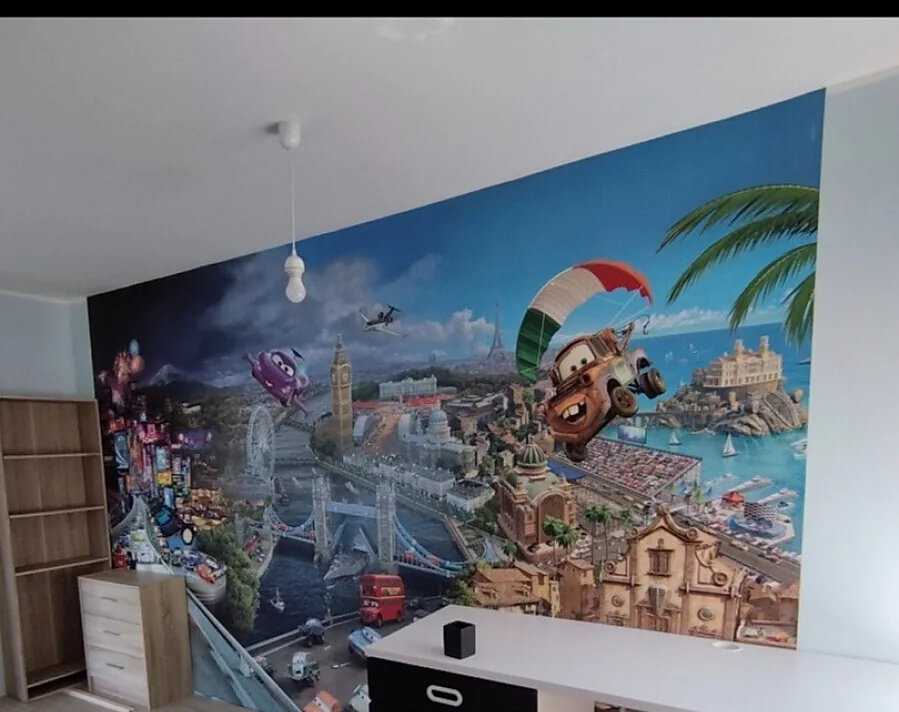
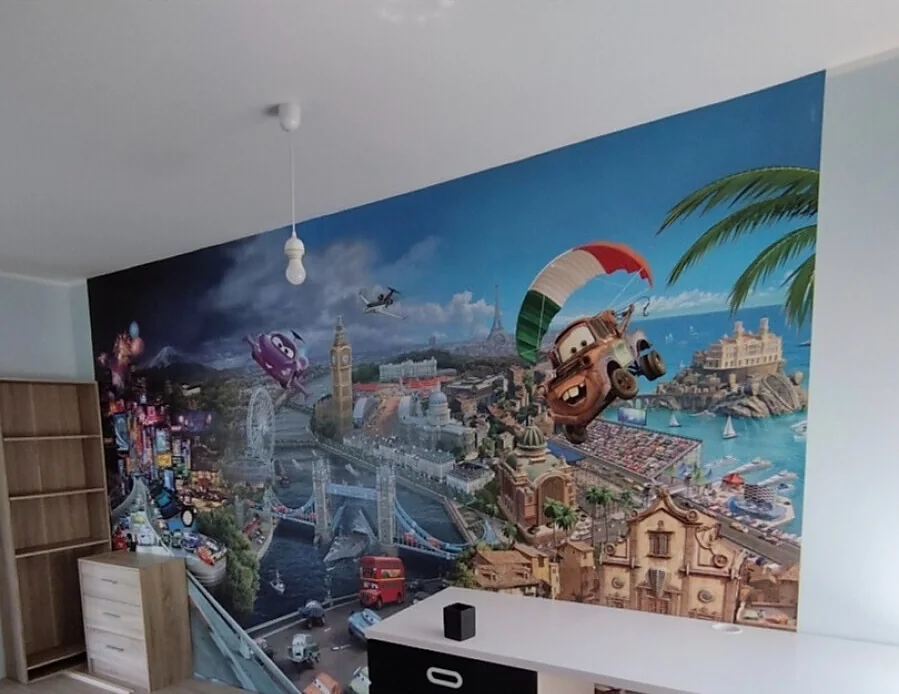
Mustad ääred fotodelt, keskel ikoonid ja päise numbrinupu polster
- ehita.py lõikab fotode servadest mustad ribad, mille telefon või
  portaal on lisanud; kollaažide sisemist musta tausta see ei puuduta
- suurendusakna nupud SVG-ikoonidega, fondi märgid ei istunud keskel
- menüülinkide stiil kehtib ainult nimekirja linkidele, päise
  numbrinupp saab tagasi oma polstri, tumeda teksti ja paksuse

diff --git a/public/index.html b/public/index.html
@@ -239,14 +239,14 @@
       <p class="sissejuhatus">Fotod on meie enda objektidelt. Osa piltidest on enne ja pärast võrdlused, sest viimistluse ja puhastuse töö ongi kõige paremini näha vahet vaadates.</p>
 
       <div class="galerii">
-        <figure class="lai"><a class="galerii-link" href="/pildid/fototapeet-ornamendiga-magamistoas.webp"><img src="/pildid/fototapeet-ornamendiga-magamistoas.webp" width="899" height="551" loading="lazy" decoding="async" alt="Magamistoa seinal hallis toonis ornamendimustriga fototapeet ja lae all must kroonlühter."></a></figure>
-        <figure><a class="galerii-link" href="/pildid/korteri-remont-enne-ja-parast.webp"><img src="/pildid/korteri-remont-enne-ja-parast.webp" width="900" height="1144" loading="lazy" decoding="async" alt="Enne ja pärast võrdlus korteri remondist: punase seinaviimistluse asemel on hele sein ja uus põrand."></a></figure>
-        <figure><a class="galerii-link" href="/pildid/maalritood-enne-ja-parast.webp"><img src="/pildid/maalritood-enne-ja-parast.webp" width="900" height="1144" loading="lazy" decoding="async" alt="Neljast fotost koosnev võrdlus maalritöödest: lagi ja seinad enne pahteldamist ning pärast värvimist."></a></figure>
-        <figure class="lai"><a class="galerii-link" href="/pildid/fototapeet-lastetoa-seinal.webp"><img src="/pildid/fototapeet-lastetoa-seinal.webp" width="899" height="712" loading="lazy" decoding="async" alt="Lastetoa seinal värviline joonistatud linnamotiiviga fototapeet ja selle ees valge töölaud."></a></figure>
+        <figure class="lai"><a class="galerii-link" href="/pildid/fototapeet-ornamendiga-magamistoas.webp"><img src="/pildid/fototapeet-ornamendiga-magamistoas.webp" width="815" height="551" loading="lazy" decoding="async" alt="Magamistoa seinal hallis toonis ornamendimustriga fototapeet ja lae all must kroonlühter."></a></figure>
+        <figure><a class="galerii-link" href="/pildid/korteri-remont-enne-ja-parast.webp"><img src="/pildid/korteri-remont-enne-ja-parast.webp" width="900" height="1093" loading="lazy" decoding="async" alt="Enne ja pärast võrdlus korteri remondist: punase seinaviimistluse asemel on hele sein ja uus põrand."></a></figure>
+        <figure><a class="galerii-link" href="/pildid/maalritood-enne-ja-parast.webp"><img src="/pildid/maalritood-enne-ja-parast.webp" width="900" height="1048" loading="lazy" decoding="async" alt="Neljast fotost koosnev võrdlus maalritöödest: lagi ja seinad enne pahteldamist ning pärast värvimist."></a></figure>
+        <figure class="lai"><a class="galerii-link" href="/pildid/fototapeet-lastetoa-seinal.webp"><img src="/pildid/fototapeet-lastetoa-seinal.webp" width="899" height="694" loading="lazy" decoding="async" alt="Lastetoa seinal värviline joonistatud linnamotiiviga fototapeet ja selle ees valge töölaud."></a></figure>
         <figure><a class="galerii-link" href="/pildid/varvitud-seinte-ja-laega-tuba.webp"><img src="/pildid/varvitud-seinte-ja-laega-tuba.webp" width="900" height="844" loading="lazy" decoding="async" alt="Heledaks värvitud seinte ja laega tuba, ukseavast paistab köök."></a></figure>
         <figure><a class="galerii-link" href="/pildid/toa-ettevalmistus-varvimiseks.webp"><img src="/pildid/toa-ettevalmistus-varvimiseks.webp" width="900" height="1872" loading="lazy" decoding="async" alt="Värvimiseks ette valmistatud tuba, põrand on kaetud kaitsekattega ja keskel seisavad värvinõud."></a></figure>
         <figure><a class="galerii-link" href="/pildid/seinakarkass-korteri-remondil.webp"><img src="/pildid/seinakarkass-korteri-remondil.webp" width="900" height="844" loading="lazy" decoding="async" alt="Pooleliolev korteri remont, ruumi jagab puidust seinakarkass ja põrandal on puitplaadid."></a></figure>
-        <figure><a class="galerii-link" href="/pildid/vannitoa-puhastus-enne-ja-parast.webp"><img src="/pildid/vannitoa-puhastus-enne-ja-parast.webp" width="900" height="1144" loading="lazy" decoding="async" alt="Enne ja pärast võrdlus vannitoa puhastusest: määrdunud nurga asemel on puhtad heledad plaadid."></a></figure>
+        <figure><a class="galerii-link" href="/pildid/vannitoa-puhastus-enne-ja-parast.webp"><img src="/pildid/vannitoa-puhastus-enne-ja-parast.webp" width="900" height="920" loading="lazy" decoding="async" alt="Enne ja pärast võrdlus vannitoa puhastusest: määrdunud nurga asemel on puhtad heledad plaadid."></a></figure>
         <figure><a class="galerii-link" href="/pildid/koristatud-koogi-tooplaan.webp"><img src="/pildid/koristatud-koogi-tooplaan.webp" width="899" height="1542" loading="lazy" decoding="async" alt="Koristatud köök, puidust tööpind on tühi ja puhas ning põrandal seisab koristusämber."></a></figure>
         <figure><a class="galerii-link" href="/pildid/puhastatud-aken-parast-remonti.webp"><img src="/pildid/puhastatud-aken-parast-remonti.webp" width="899" height="1542" loading="lazy" decoding="async" alt="Pärast remonti puhastatud puitraamis aken ja selle all valge radiaator."></a></figure>
       </div>

diff --git a/public/skript.js b/public/skript.js
@@ -36,6 +36,13 @@
   var lingid = Array.prototype.slice.call(document.querySelectorAll(".galerii-link"));
 
   if (lingid.length && typeof HTMLDialogElement === "function") {
+    /* Ikoonid on SVG, sest fondi märgid × ja ‹ › ei istu nupu keskele. */
+    var ikoon = function (joon) {
+      return '<svg viewBox="0 0 24 24" width="22" height="22" aria-hidden="true" focusable="false">' +
+        '<path d="' + joon + '" fill="none" stroke="currentColor" stroke-width="2.2" ' +
+        'stroke-linecap="round" stroke-linejoin="round"/></svg>';
+    };
+
     var aken = document.createElement("dialog");
     aken.className = "suurendus";
     aken.setAttribute("aria-label", "Foto suurelt");
@@ -45,9 +52,9 @@
         '<figcaption class="suurendus-tekst"></figcaption>' +
       '</figure>' +
       '<p class="suurendus-loendur" aria-live="polite"></p>' +
-      '<button type="button" class="suurendus-nupp suurendus-eelmine" aria-label="Eelmine foto">‹</button>' +
-      '<button type="button" class="suurendus-nupp suurendus-jargmine" aria-label="Järgmine foto">›</button>' +
-      '<button type="button" class="suurendus-nupp suurendus-sulge" aria-label="Sulge">×</button>';
+      '<button type="button" class="suurendus-nupp suurendus-eelmine" aria-label="Eelmine foto">' + ikoon("M15 5l-7 7 7 7") + '</button>' +
+      '<button type="button" class="suurendus-nupp suurendus-jargmine" aria-label="Järgmine foto">' + ikoon("M9 5l7 7-7 7") + '</button>' +
+      '<button type="button" class="suurendus-nupp suurendus-sulge" aria-label="Sulge">' + ikoon("M6 6l12 12M18 6L6 18") + '</button>';
     document.body.appendChild(aken);
 
     var suurPilt = aken.querySelector(".suurendus-pilt");

diff --git a/public/stiil.css b/public/stiil.css
@@ -130,7 +130,7 @@ a:hover { text-decoration-thickness: 2px; }
   margin: 0;
   padding: 0;
 }
-.menuu a {
+.menuu ul a {
   color: #e8e9ef;
   text-decoration: none;
   font-size: 0.9375rem;
@@ -138,7 +138,7 @@ a:hover { text-decoration-thickness: 2px; }
   padding: 0.4rem 0;
   border-bottom: 2px solid transparent;
 }
-.menuu a:hover { border-bottom-color: var(--roosa); }
+.menuu ul a:hover { border-bottom-color: var(--roosa); }
 
 .menuunupp {
   display: none;
@@ -386,6 +386,8 @@ html:has(.suurendus[open]) { overflow: hidden; }
 
 .suurendus-nupp {
   position: absolute;
+  display: grid;
+  place-items: center;
   width: 48px;
   height: 48px;
   padding: 0;
@@ -393,11 +395,9 @@ html:has(.suurendus[open]) { overflow: hidden; }
   border-radius: 50%;
   background: rgba(255, 255, 255, 0.08);
   color: #fff;
-  font: inherit;
-  font-size: 1.75rem;
-  line-height: 1;
   cursor: pointer;
 }
+.suurendus-nupp svg { display: block; }
 .suurendus-nupp:hover { background: var(--roosa); border-color: var(--roosa); }
 .suurendus-sulge { top: 0.75rem; right: 0.75rem; }
 .suurendus-eelmine,
@@ -564,7 +564,7 @@ html:has(.suurendus[open]) { overflow: hidden; }
   .pais-sisu { position: relative; }
   .menuu ul { flex-direction: column; gap: 0; }
   .menuu li { border-bottom: 1px solid #262a38; }
-  .menuu a { display: block; padding: 0.8rem 0; font-size: 1rem; }
+  .menuu ul a { display: block; padding: 0.8rem 0; font-size: 1rem; }
   .nupp-pais { text-align: center; margin-top: 0.5rem; }
 
   .hero-ruut { grid-template-columns: minmax(0, 1fr); }

diff --git a/ehita.py b/ehita.py
@@ -41,11 +41,48 @@ GALERII = [
 HERO = "fototapeet-metsamotiiviga-elutoas"
 
 
+def mustad_aared(pilt, lavi=28, osa=0.97, varu=2):
+    """Leiab pildi servadest mustad ribad, mille telefon või portaal on
+    lisanud. Rida või veerg loetakse mustaks, kui vähemalt 97% selle
+    pikslitest on tumedamad kui lävi. Kontrollitakse ainult servast
+    sissepoole, kollaaži sees olevat musta tausta see ei puuduta."""
+    hall = pilt.convert("L")
+    laius, korgus = hall.size
+    px = hall.load()
+
+    def must_veerg(x):
+        return sum(px[x, y] < lavi for y in range(korgus)) >= osa * korgus
+
+    def must_rida(y):
+        return sum(px[x, y] < lavi for x in range(laius)) >= osa * laius
+
+    vasak = 0
+    while vasak < laius // 3 and must_veerg(vasak):
+        vasak += 1
+    parem = laius
+    while parem > laius * 2 // 3 and must_veerg(parem - 1):
+        parem -= 1
+    ules = 0
+    while ules < korgus // 3 and must_rida(ules):
+        ules += 1
+    alla = korgus
+    while alla > korgus * 2 // 3 and must_rida(alla - 1):
+        alla -= 1
+
+    # JPEG jätab riba ja foto vahele tumeda ülemineku, varu võtab selle ka ära
+    if vasak: vasak += varu
+    if parem < laius: parem -= varu
+    if ules: ules += varu
+    if alla < korgus: alla -= varu
+    return vasak, ules, parem, alla
+
+
 def ava(nimi):
     tee = LAHE / f"vp-viimistlus-ja-puhastus-{nimi}.jpg"
     pilt = ImageOps.exif_transpose(Image.open(tee)).convert("RGB")
     laius, korgus = pilt.size
     pilt = pilt.crop((0, 0, laius, korgus - VESIMARK_KORGUS))
+    pilt = pilt.crop(mustad_aared(pilt))
     # Hange.ee on pildid korduvalt JPEG-iks pakkinud ja need on pehmed.
     # Kerge teravustus toob servad tagasi, suurem tekitaks halosid.
     return pilt.filter(ImageFilter.UnsharpMask(radius=1.2, percent=55, threshold=2))
